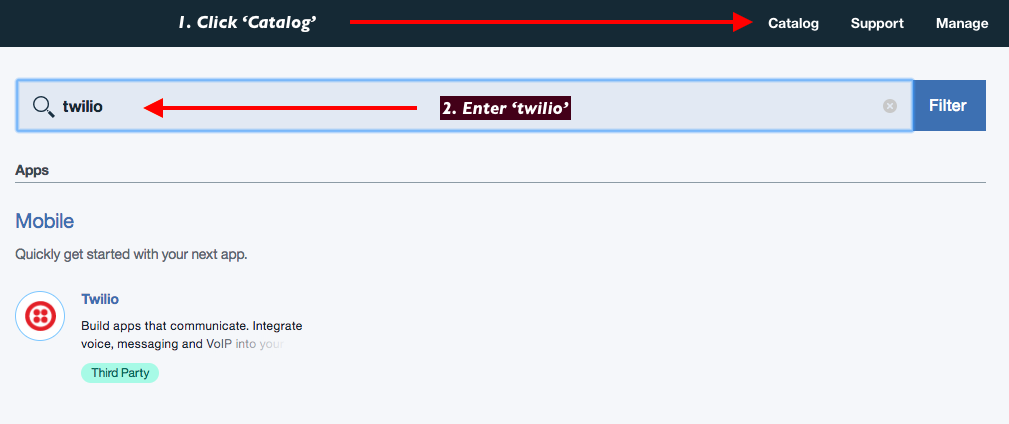
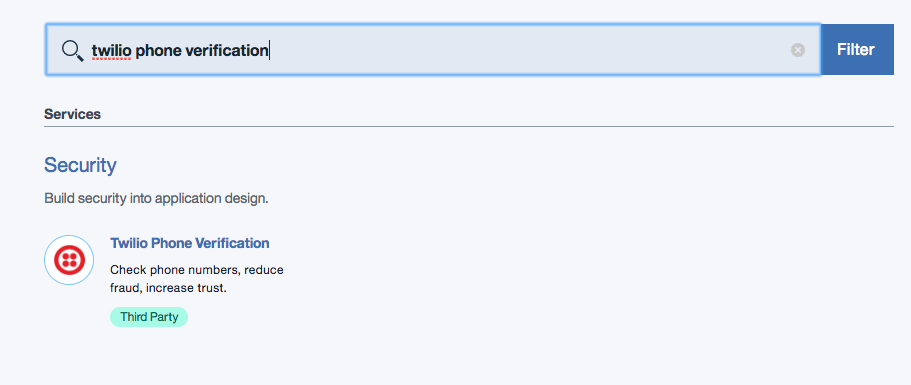
Adapt Phone Verification to our integration

diff --git a/services/TwilioPhoneVerification/index.md b/services/TwilioPhoneVerification/index.md
@@ -54,13 +54,10 @@ presented to the App to continue. This quickstart is based on
      ```
      {: codeblock}
 
-1. Create a new Bluemix App, naming it ‘Twilio-Phone-Verify’ or similar
-   (this name will be taken, so choose something memorable)
-
-1. Log into Bluemix Console and create a Twilio App
+1. Log into Bluemix Console and create a Twilio Phone Verification App
       <ol type="a">
         <li>Click 'Catalog' at the top of the screen</li>
-        <li>Enter ‘twilio’</li>
+        <li>Enter ‘twilio phone verification’</li>
       </ol>
 
    ![Twilio app from Bluemix catalog](images/03-create-twilio-app.png)
@@ -70,22 +67,6 @@ presented to the App to continue. This quickstart is based on
 
    ![Configure your Twilio Credentials](images/02-twilio-credentials.png)
 
-1. In the [Bluemix Dashboard](https://console.bluemix.net/dashboard/apps/){: new_window},
-   click on your Twilio Service under ‘Services’, then click the
-   ‘Create connection +’ button.  Connect it to your new Node.js App.
-
-1. Next, create a new Compose for MongoDB App.
-    <ol type="a">
-      <li>Click ‘Catalog’ at the top of the screen</li>
-      <li>Enter ‘mongodb’</li>
-    </ol>
-    ![Compose MongoDB](images/compose-mongodb.png)
-
-1. Name the app as you wish, and wait for it to be created.
-
-1. When it is finished, click the new Mongo service and ‘Create connection +’.
-   Connect it to the Twilio Two-Factor App you’ve created.
-
 1. In the Twilio Console’s Authy Dashboard, click the ‘+ New Application’ Button:
    ![Authy Dashboard](images/authy-dashboard.png)
 
@@ -94,14 +75,34 @@ presented to the App to continue. This quickstart is based on
 
    ![Authy Settings](images/authy-settings.png)
 
+   Add the App API Key to the service, then 'Create' it!
+
+1. Next, create a new Compose for MongoDB App.
+    <ol type="a">
+      <li>Click ‘Catalog’ at the top of the screen</li>
+      <li>Enter ‘mongodb’</li>
+    </ol>
+    ![Compose MongoDB](images/compose-mongodb.png)
+
+1. Name the Service as you wish, and wait for it to be created.
+
+1. Create a new Bluemix Node.js App, naming it ‘Twilio-Phone-Verify’ or similar
+   (this name will be taken, so choose something memorable)
+
+1. When it is finished, navigate to the new Mongo service and ‘Create connection +’.
+   Connect it to the Twilio Two-Factor App you’ve created.
+
+1. In the [Bluemix Dashboard](https://console.bluemix.net/dashboard/apps/){: new_window},
+   click on your  Twilio Phone Verification Service under ‘Services’, then click the
+   ‘Create connection +’ button.  Connect it to your Twilio Two-Factor App.
+
 1. Back in the Bluemix Dashboard, navigate to your Authy Two Factor App. In
-   ‘Runtime’ on the left side, add two environment variables (and one optional one),
+   ‘Runtime’ on the left side, add one environment variable (and one optional one),
    pasting in the App’s API Key, a Twilio Phone number, and optionally an App Secret:
      ```bash
-     APP_API_KEY
      TWILIO_PHONE_NUMBER
      ```
-     And optionally(avoid this in production):
+     And optionally (do this for sure in production):
      ```bash
      APP_SECRET
      ```
